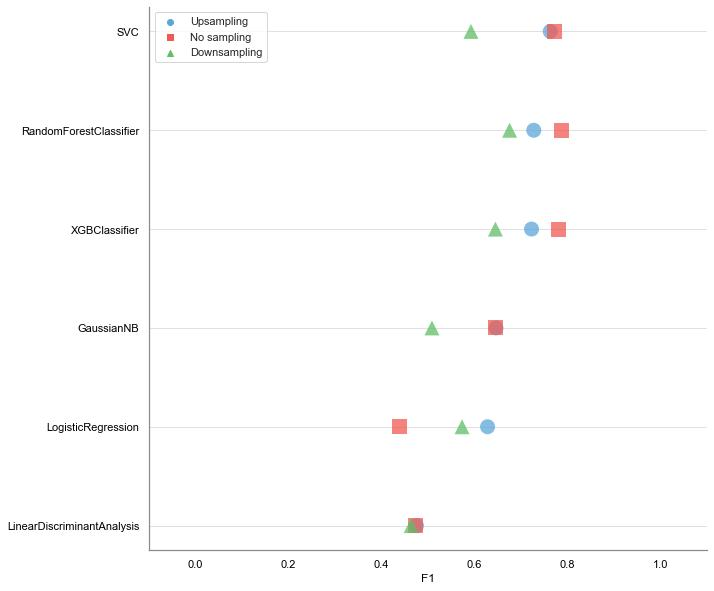
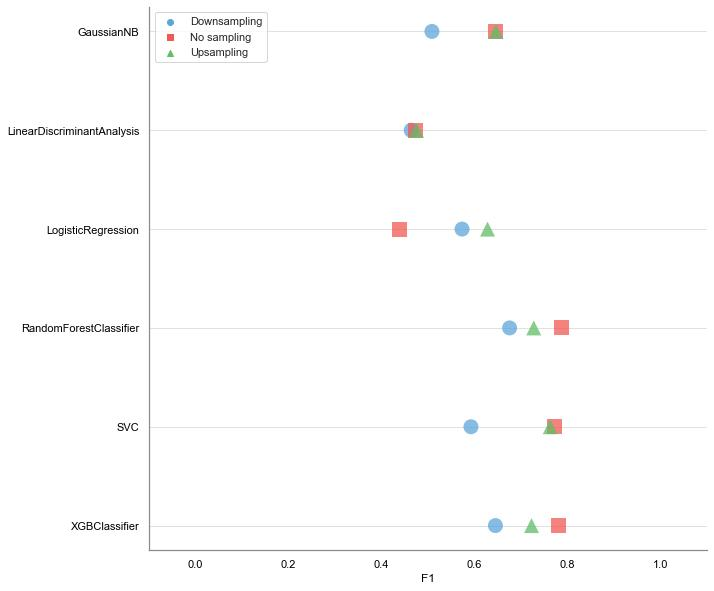
fixed legend

diff --git a/code/model_comparison.py b/code/model_comparison.py
@@ -26,10 +26,9 @@ df = pd.concat([df_no_sampling, df_upsampling, df_downsampling],
 for idx, val in enumerate(df.columns[2:]):
     sorted_index_descent = df.groupby(['Model']).max().sort_values(by= val,ascending=False).index
     
-    df = df.sort_values(by=['Sampling', val], ascending=False)
+    df = df.sort_values(by=['Model', 'Sampling',val], ascending=True)
     
     plt.figure(figsize=(10, 10))
-    # ax = sns.stripplot(y = df['Model'], x = df[val], hue = df['Sampling'], jitter=0.055, s=15, order = sorted_index_descent, alpha=0.75)
     ax = sns.scatterplot(data = df, y = 'Model', x = val, hue = 'Sampling', style='Sampling', s=225, linewidth=0, alpha=0.75, markers=('o','s','^'), palette=[medium[1],medium[8],medium[3]])
     ax.set_ylabel('')
     ax.set_xlabel(val)
@@ -44,7 +43,7 @@ for idx, val in enumerate(df.columns[2:]):
     ax.yaxis.set_ticks_position('none')
     ax.grid(color = 'w', axis='x')
     ax.grid(color = grid[0], axis='y')
-    ax.legend(loc="upper left")
+    ax.legend(loc="upper left")    
     ax.set_axisbelow(True)
     
     plt.savefig('../output/modeling/model_comparison/stripplot_model_{}.jpg'.format(val), bbox_inches='tight')
